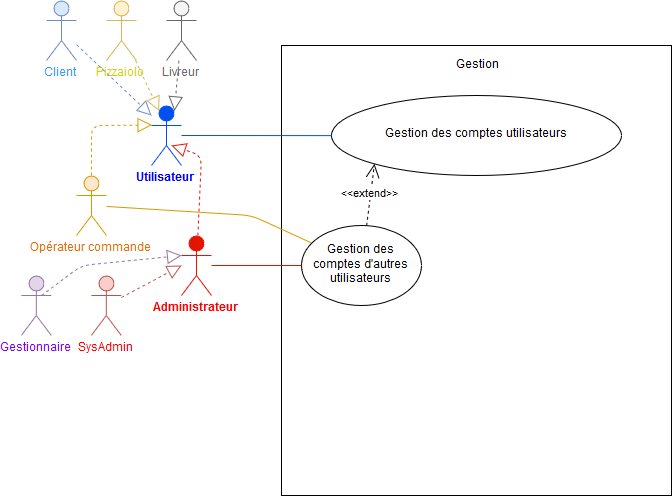
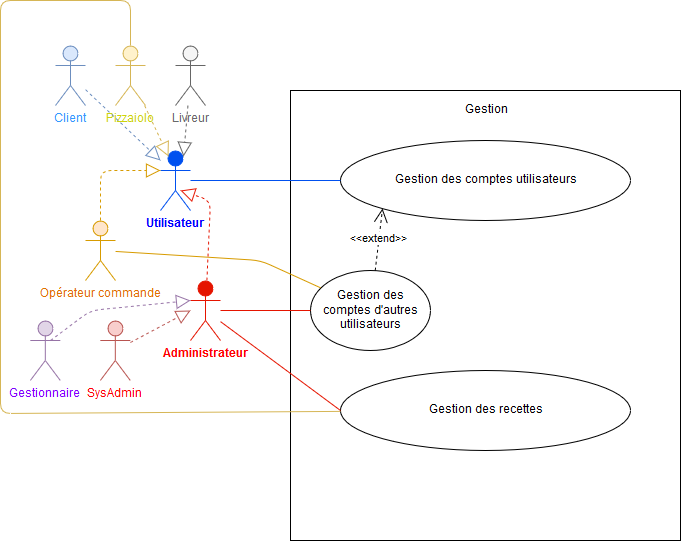
02-03 : description + fiche + diagramme d'activité + modif diag UC 02

diff --git a/packages/02-gestion/03-gestion-recettes/03-fiche.md b/packages/02-gestion/03-gestion-recettes/03-fiche.md
@@ -1,0 +1,45 @@
+# UC 02-03 : gestion des recettes
+
+## Présentation du cas
+
+Le système doit permettre la gestion de recettes de cuisine, allant de la consultation à la création en passant par la modification.
+
+## Prérequis / condition(s) initiale(s)
+
+L'utilisateur possède des droits étendus.
+
+## Objectif(s)
+
+Offrir des aide-mémoire aux pizzaiolos.
+
+## Acteur(s) principal(aux)
+
+Pizzaiolo ou administrateur.
+
+## Acteur(s) secondaire(s)
+
+N/A
+
+## Événement déclencheur
+
+Un utilisateur décide de consulter, créer ou modifier une recette de cuisine.
+
+## Étape par étape
+
+1. L'utilisateur est connecté et se rend sur la page de gestion des comptes.
+2. L'utilisateur mène les actions qu'il désire.
+
+## Scénarios alternatifs
+
+2. 1. L'utilisateur souhaite consulter une recette.
+   2. L'utilisateur emploie le moteur de recherche afin de récupérer la recette souhaitée.
+
+<!-- -->
+
+2. 1. L'utilisateur souhaite créer une recette.
+   2. L'utilisateur complète le formulaire dédié et le valide.
+
+<!-- -->
+
+2. 1. L'utilisateur souhaite modifier une recette.
+   2. Il édite la recette souhaitée et valide le formulaire.

diff --git a/packages/02-gestion/03-gestion-recettes/03-description.md b/packages/02-gestion/03-gestion-recettes/03-description.md
@@ -1,0 +1,5 @@
+# UC 02-03 : gestion des recettes
+
+Le système doit permettre de stocker des recettes de cuisine, afin d'offrir un ensemble d'aide-mémoire à destination des pizzaiolos.
+
+Il faut prévoir une solution incluant la consultation, la modification et l'ajout de recettes. Seuls les pizzaiolos et les administrateurs auront des droits d'accès suffisants pour mener ces opérations.

diff --git a/packages/02-gestion/03-gestion-recettes/README.md b/packages/02-gestion/03-gestion-recettes/README.md
@@ -1,0 +1,1 @@
+![Diagramme d'activité pour l'UC gestion des recettes](../../../diagrammes/packages/02-gestion/03-gestion-recettes/02-03-diag-activité.png)
